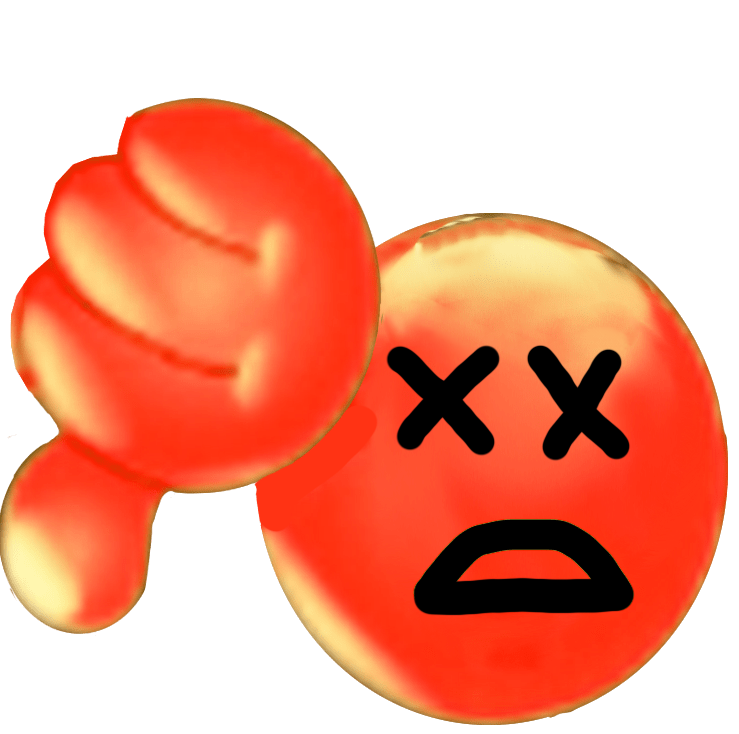
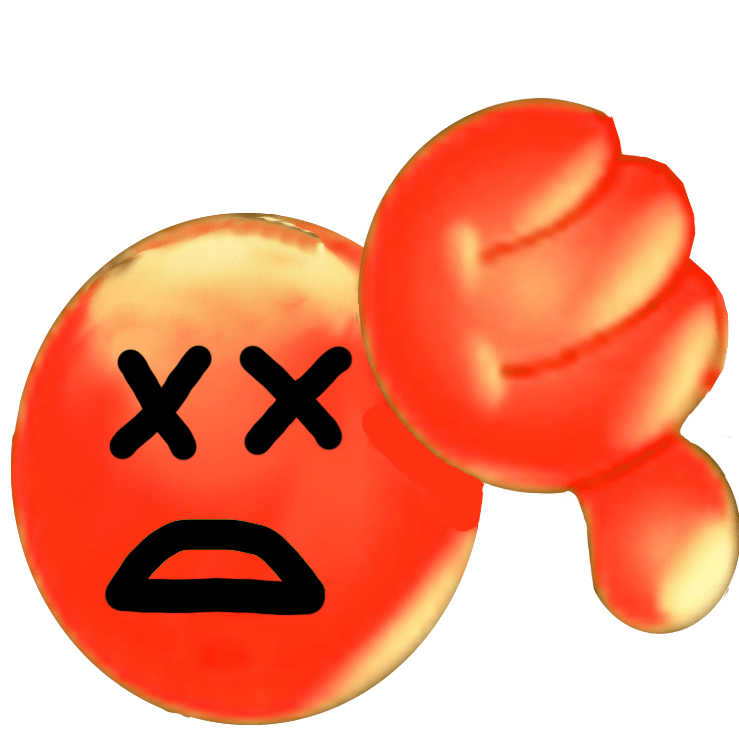
improve death animation (and also break enemy peeking)

diff --git a/enemy.py b/enemy.py
@@ -2,6 +2,7 @@ from entity import Entity
 from utils import find_nearest, find_xy_speed, get_image
 import random
 import pygame
+import math
 
 MODES = ["wander", "panic", "hide"]
 
@@ -13,11 +14,12 @@ IMAGES = {
 }
 
 class Movement:
-    def __init__(self, x_speed, y_speed, start, duration):
-        self.x_speed = x_speed
-        self.y_speed = y_speed
+    def __init__(self, dx, dy, start, duration, y_accel=0):
+        self.x_speed = math.ceil(dx / (duration / 60))
+        self.y_speed = math.ceil(dy / (duration / 60))
         self.start = start
         self.duration = duration # ms
+        self.y_acceleration = y_accel
 
 class Enemy(Entity):
     name = "enemy"
@@ -37,7 +39,7 @@ class Enemy(Entity):
         self.y_speed = y_speed
         self.default_x_speed = x_speed
         self.default_y_speed = y_speed
-        self.panic_multiplier = 2
+        self.panic_multiplier = 1
 
         # enemy state variables
         self.goal = None
@@ -45,22 +47,26 @@ class Enemy(Entity):
         self.scheduled = []
         self.recovery_time = float("inf") # time at which enemy stops hiding
         self.comfort_hp = self.max_hp # enemy panics if below comfort hp
+        self.dead = False
     
     def update(self, crates):
         current_time = pygame.time.get_ticks()
         self.scheduled.sort(key=lambda a: a.start)
-        for move in self.scheduled:
+        for i, move in enumerate(self.scheduled):
             if move.start + move.duration < current_time:
                 self.scheduled.remove(move)
             elif move.start <= current_time <= move.start + move.duration:
                 self.x_speed = move.x_speed
                 self.y_speed = move.y_speed
+                self.y_speed += move.y_acceleration
+                self.scheduled[i].y_speed = self.y_speed
                 break
 
         super().update()
         
         # play death animation if enemy dies
         if self.hp <= 0:
+            self.dead = True
             self.death_animation()
 
         # hide if shot at
@@ -86,15 +92,15 @@ class Enemy(Entity):
             else:
                 if not self.scheduled:
                     next_peek = random.randint(1000, 5000)
-                    self.peek(current_time + next_peek, 400)
+                    self.peek(current_time + next_peek, 1000, 100, 0)
                 # stop when enemy is back behind crate
                 if any(crate.encloses(self) for crate in crates):
                     self.x_speed = 0
                     self.y_speed = 0
         
-        if self.x_speed < 0:
+        if self.x_speed < 0 and not self.dead:
             self.image = get_image(IMAGES["left"], 50, 50)
-        elif self.x_speed >= 0:
+        elif self.x_speed >= 0 and not self.dead:
             self.image = get_image(IMAGES["right"], 50, 50)
 
     def schedule_move(self, move: Movement):
@@ -112,13 +118,12 @@ class Enemy(Entity):
         elif self.x_speed >= 0:
             self.image = get_image(IMAGES["right_dead"], 50, 50)
 
-        self.schedule_move(Movement(0, -10, current_time, 100))
-        self.schedule_move(Movement(0, 8, current_time + 100, 10000))
+        self.schedule_move(Movement(0, -1000, current_time, 10000, 0.5))
 
-    def peek(self, start, duration, speed=4):
+    def peek(self, start, duration, dx, dy):
         duration //= 2
-        self.schedule_move(Movement(speed, 0, start, duration))
-        self.schedule_move(Movement(-speed, 0, start + duration, duration))
+        self.schedule_move(Movement(dx, dy, start, duration))
+        self.schedule_move(Movement(-dx, -dy, start + duration, duration))
 
     # hide behind a crate
     def panic(self, crates):

diff --git a/main.py b/main.py
@@ -49,7 +49,7 @@ class Game:
         self.ammo_icon = get_image("ammo.png", 50, 50)
 
         # initialize game states and stuff
-        self.fps = fps
+        self.frame_cap = fps
         self.clock = pygame.time.Clock()
         pygame.time.set_timer(ENEMY_STATE_CHANGE, 1000)
         self.stopped = False
@@ -145,7 +145,7 @@ class Game:
 
             # draw background and fill screen
             self.screen.fill((255, 255, 255))
-            self.screen.blit(self.background, (0, 0))
+#            self.screen.blit(self.background, (0, 0))
             self.screen.blit(
                 font.render("hello", True, (255, 221, 0)),
                 (50, 550))
@@ -154,7 +154,7 @@ class Game:
             self.process_events()
             self.update()
 
-            self.clock.tick(self.fps)
+            self.clock.tick(self.frame_cap)
 
 if __name__ == "__main__":
     window = Game(fps=60)
